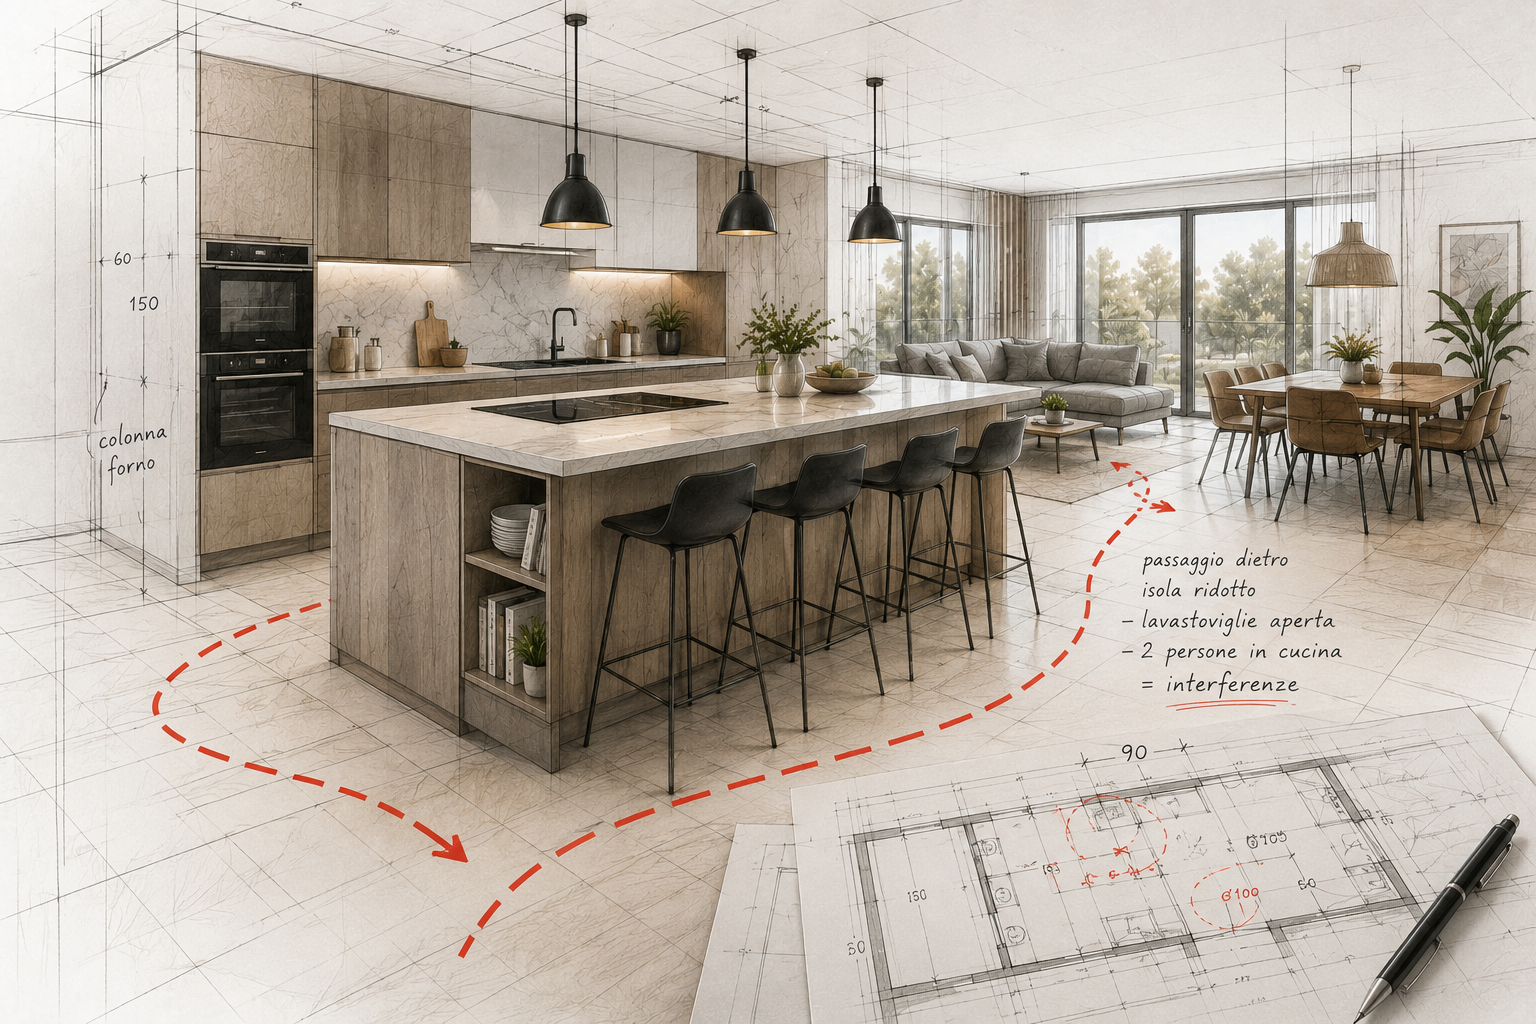
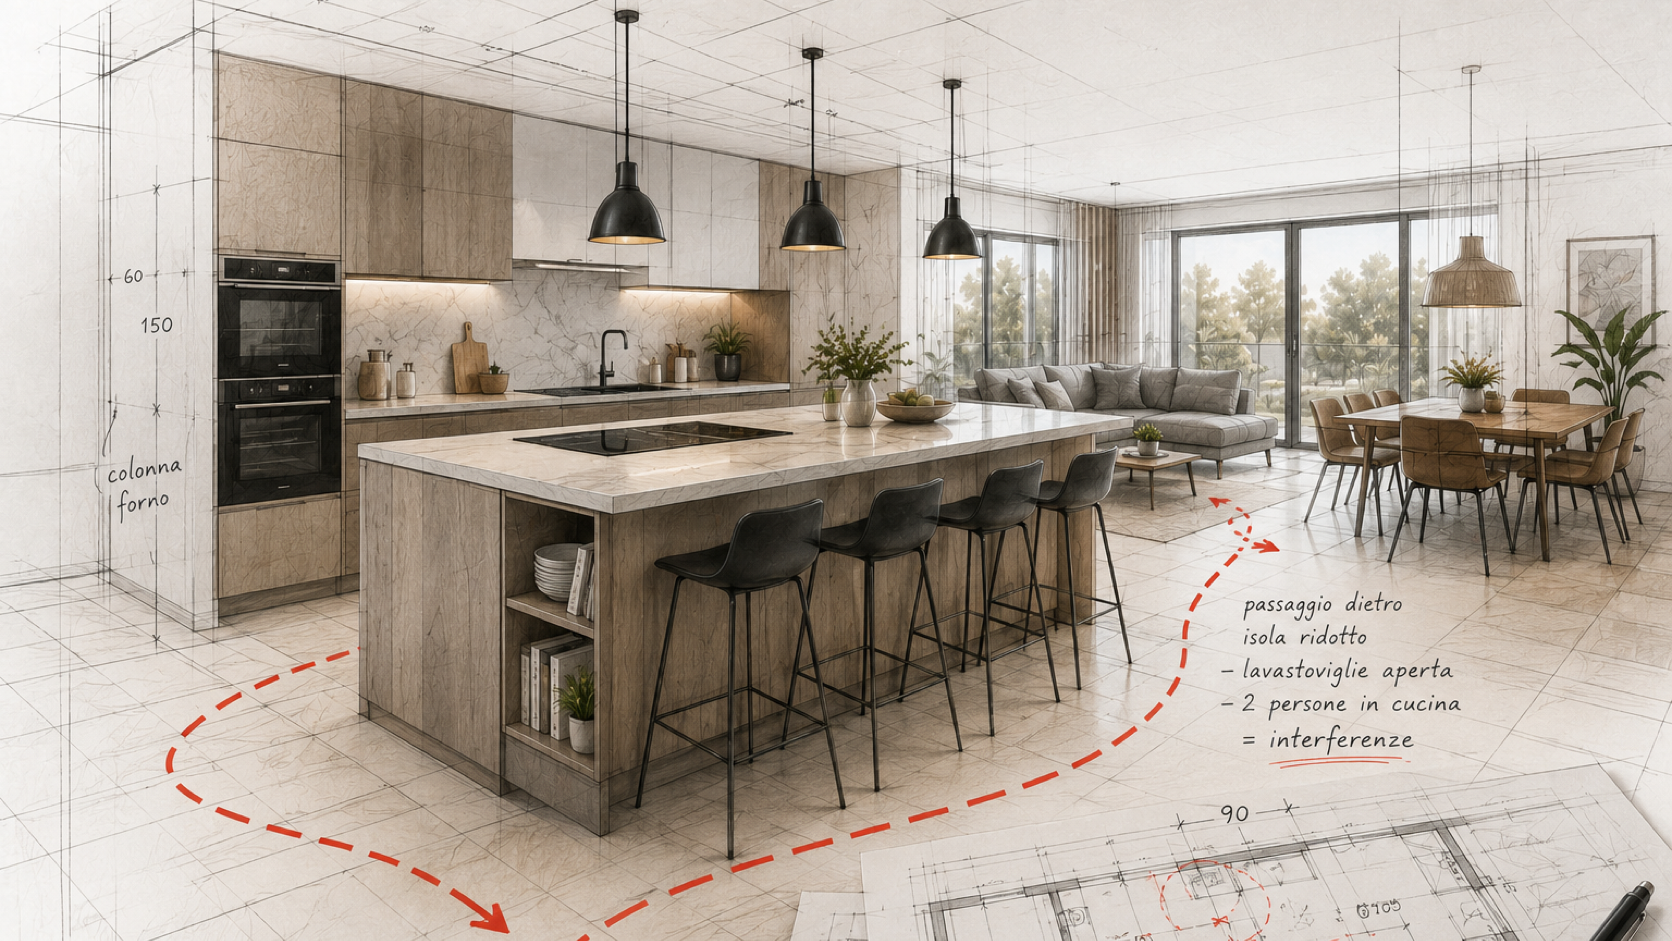
fix(site): align Vista analysed layer geometry

diff --git a/index.html b/index.html
@@ -258,16 +258,16 @@
           class="s90g-vista-clean-layer"
           src="images/02_HOME_SCENA_PULITA.png?v=20260912a"
           data-vista-90g-clean-src="images/02_HOME_SCENA_PULITA.png?v=20260912a"
-          data-vista-90g-analysed-src="images/02_HOME_SCENA_PROBLEMA.png?v=20260715a"
+          data-vista-90g-analysed-src="images/02_HOME_SCENA_PROBLEMA.png?v=20260912b"
           width="1672"
           height="941"
           alt="Cucina osservata prima di attivare la Vista 90G" loading="lazy" decoding="async">
 
         <img
           class="s90g-vista-analysed-layer"
-          src="images/02_HOME_SCENA_PROBLEMA.png?v=20260715a"
-          width="1536"
-          height="1024"
+          src="images/02_HOME_SCENA_PROBLEMA.png?v=20260912b"
+          width="1672"
+          height="941"
           loading="lazy"
           decoding="async"
           alt=""
